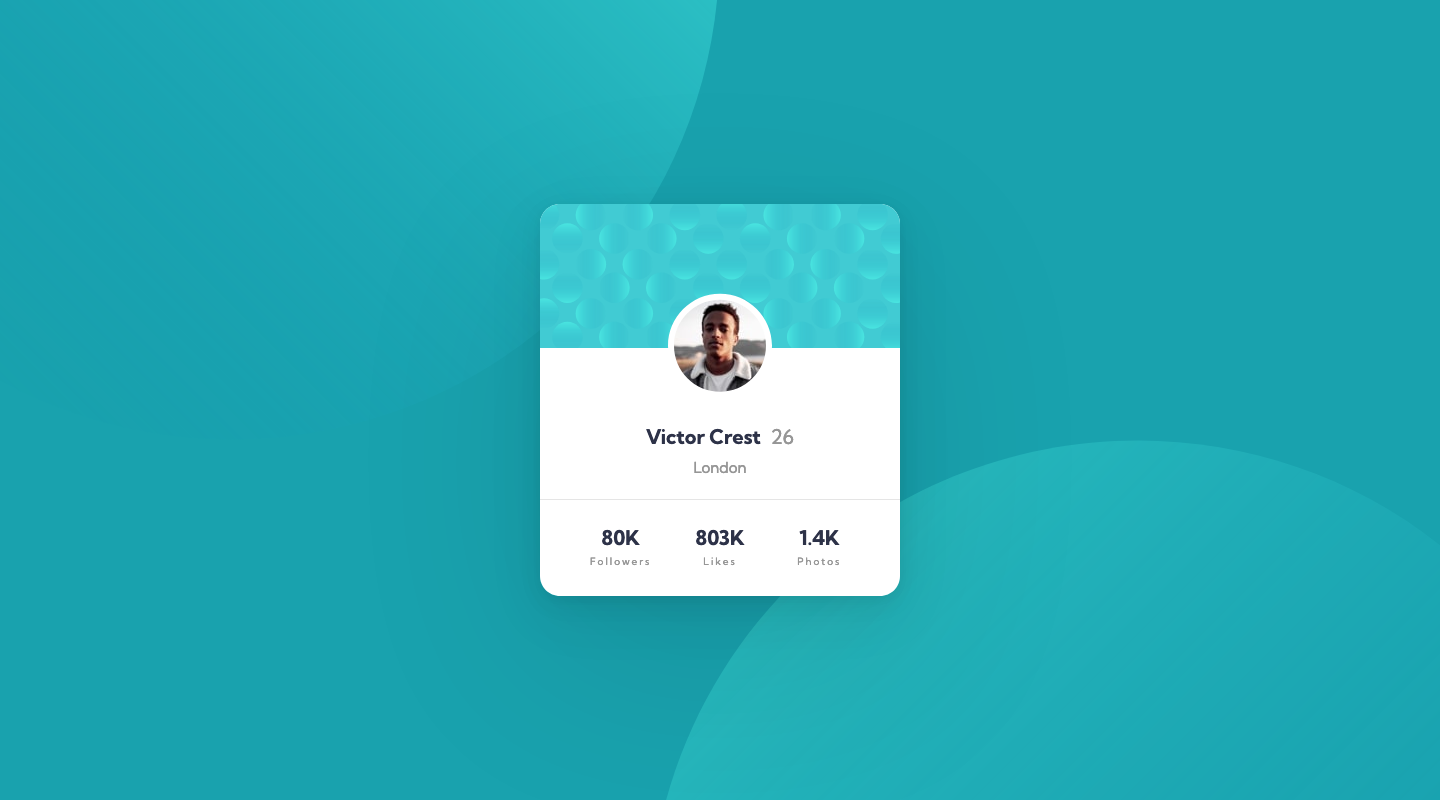
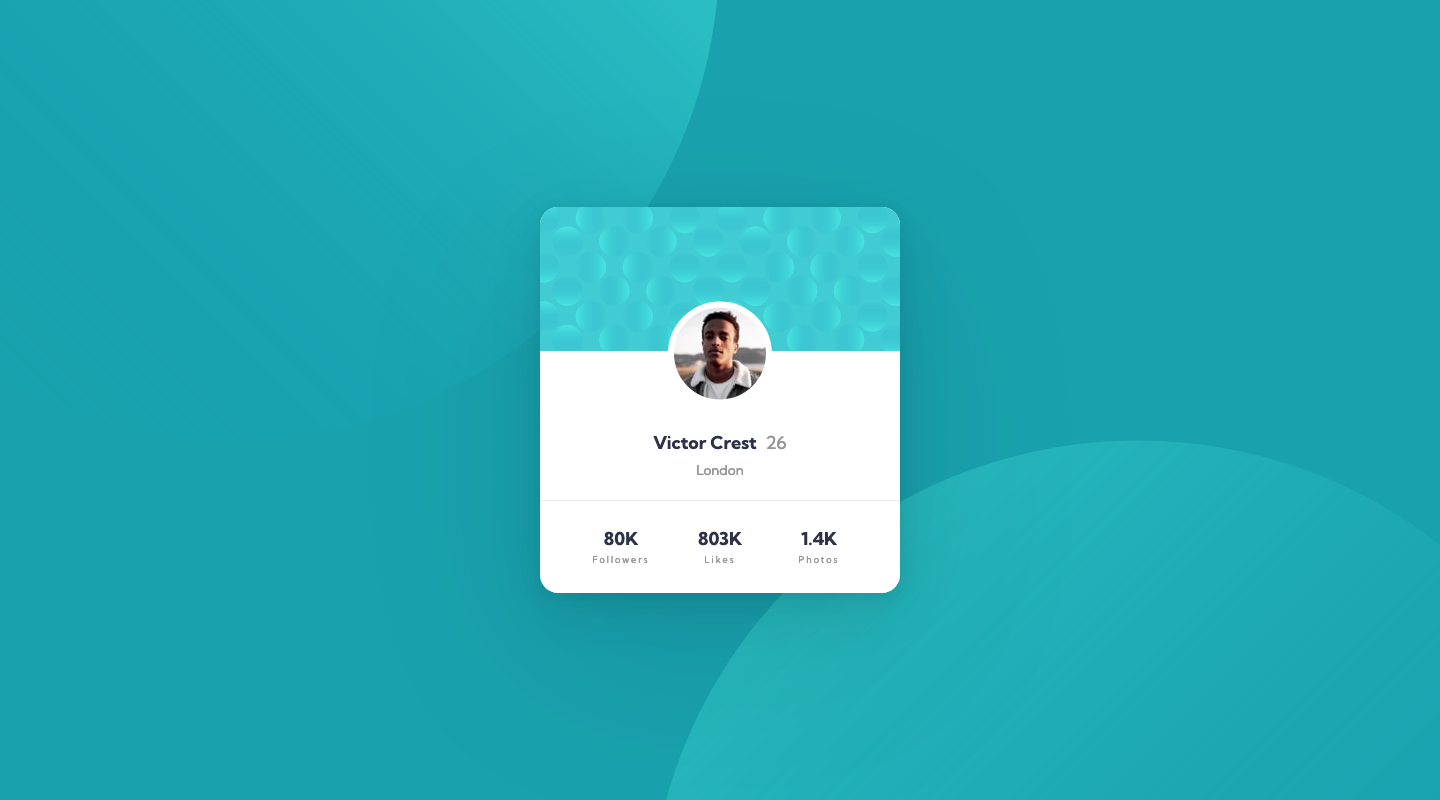
Add files via upload

diff --git a/frontend-mentor/profile-card-component/css/style.css b/frontend-mentor/profile-card-component/css/style.css
@@ -20,7 +20,7 @@
     /* Font sizes */
     --fs-200: 0.5em;
     --fs-300: 0.75em;
-    --fs-400: 1.25em;
+    --fs-400: 1.125em;
 
     /* Box shadow */
     /* https://shadows.brumm.af/ */
@@ -46,6 +46,8 @@
 body, h1, h2, p {
     margin: 0;
     padding: 0;
+
+    font-size: 1em;
 }
 
 /* Set up body */
@@ -86,6 +88,7 @@ body {
 
 .fs-200 { font-size: var(--fs-200); }
 .fs-300 { font-size: var(--fs-300); }
+.fs-400 { font-size: var(--fs-400); }
 .letter-spacing-1 { letter-spacing: 2px; }
 
 /* ==================== */

diff --git a/frontend-mentor/profile-card-component/index.html b/frontend-mentor/profile-card-component/index.html
@@ -23,7 +23,7 @@
 
             <div class="card-header">
                 <div class="card-header--name">
-                    <span class="text-primary-600 fw-700">Victor Crest</span>
+                    <h1 class="text-primary-600">Victor Crest</h1>
                     <span class="fw-400">26</span>
                 </div>
                 <div class="card-header--location fs-300 fw-400">London</div>
